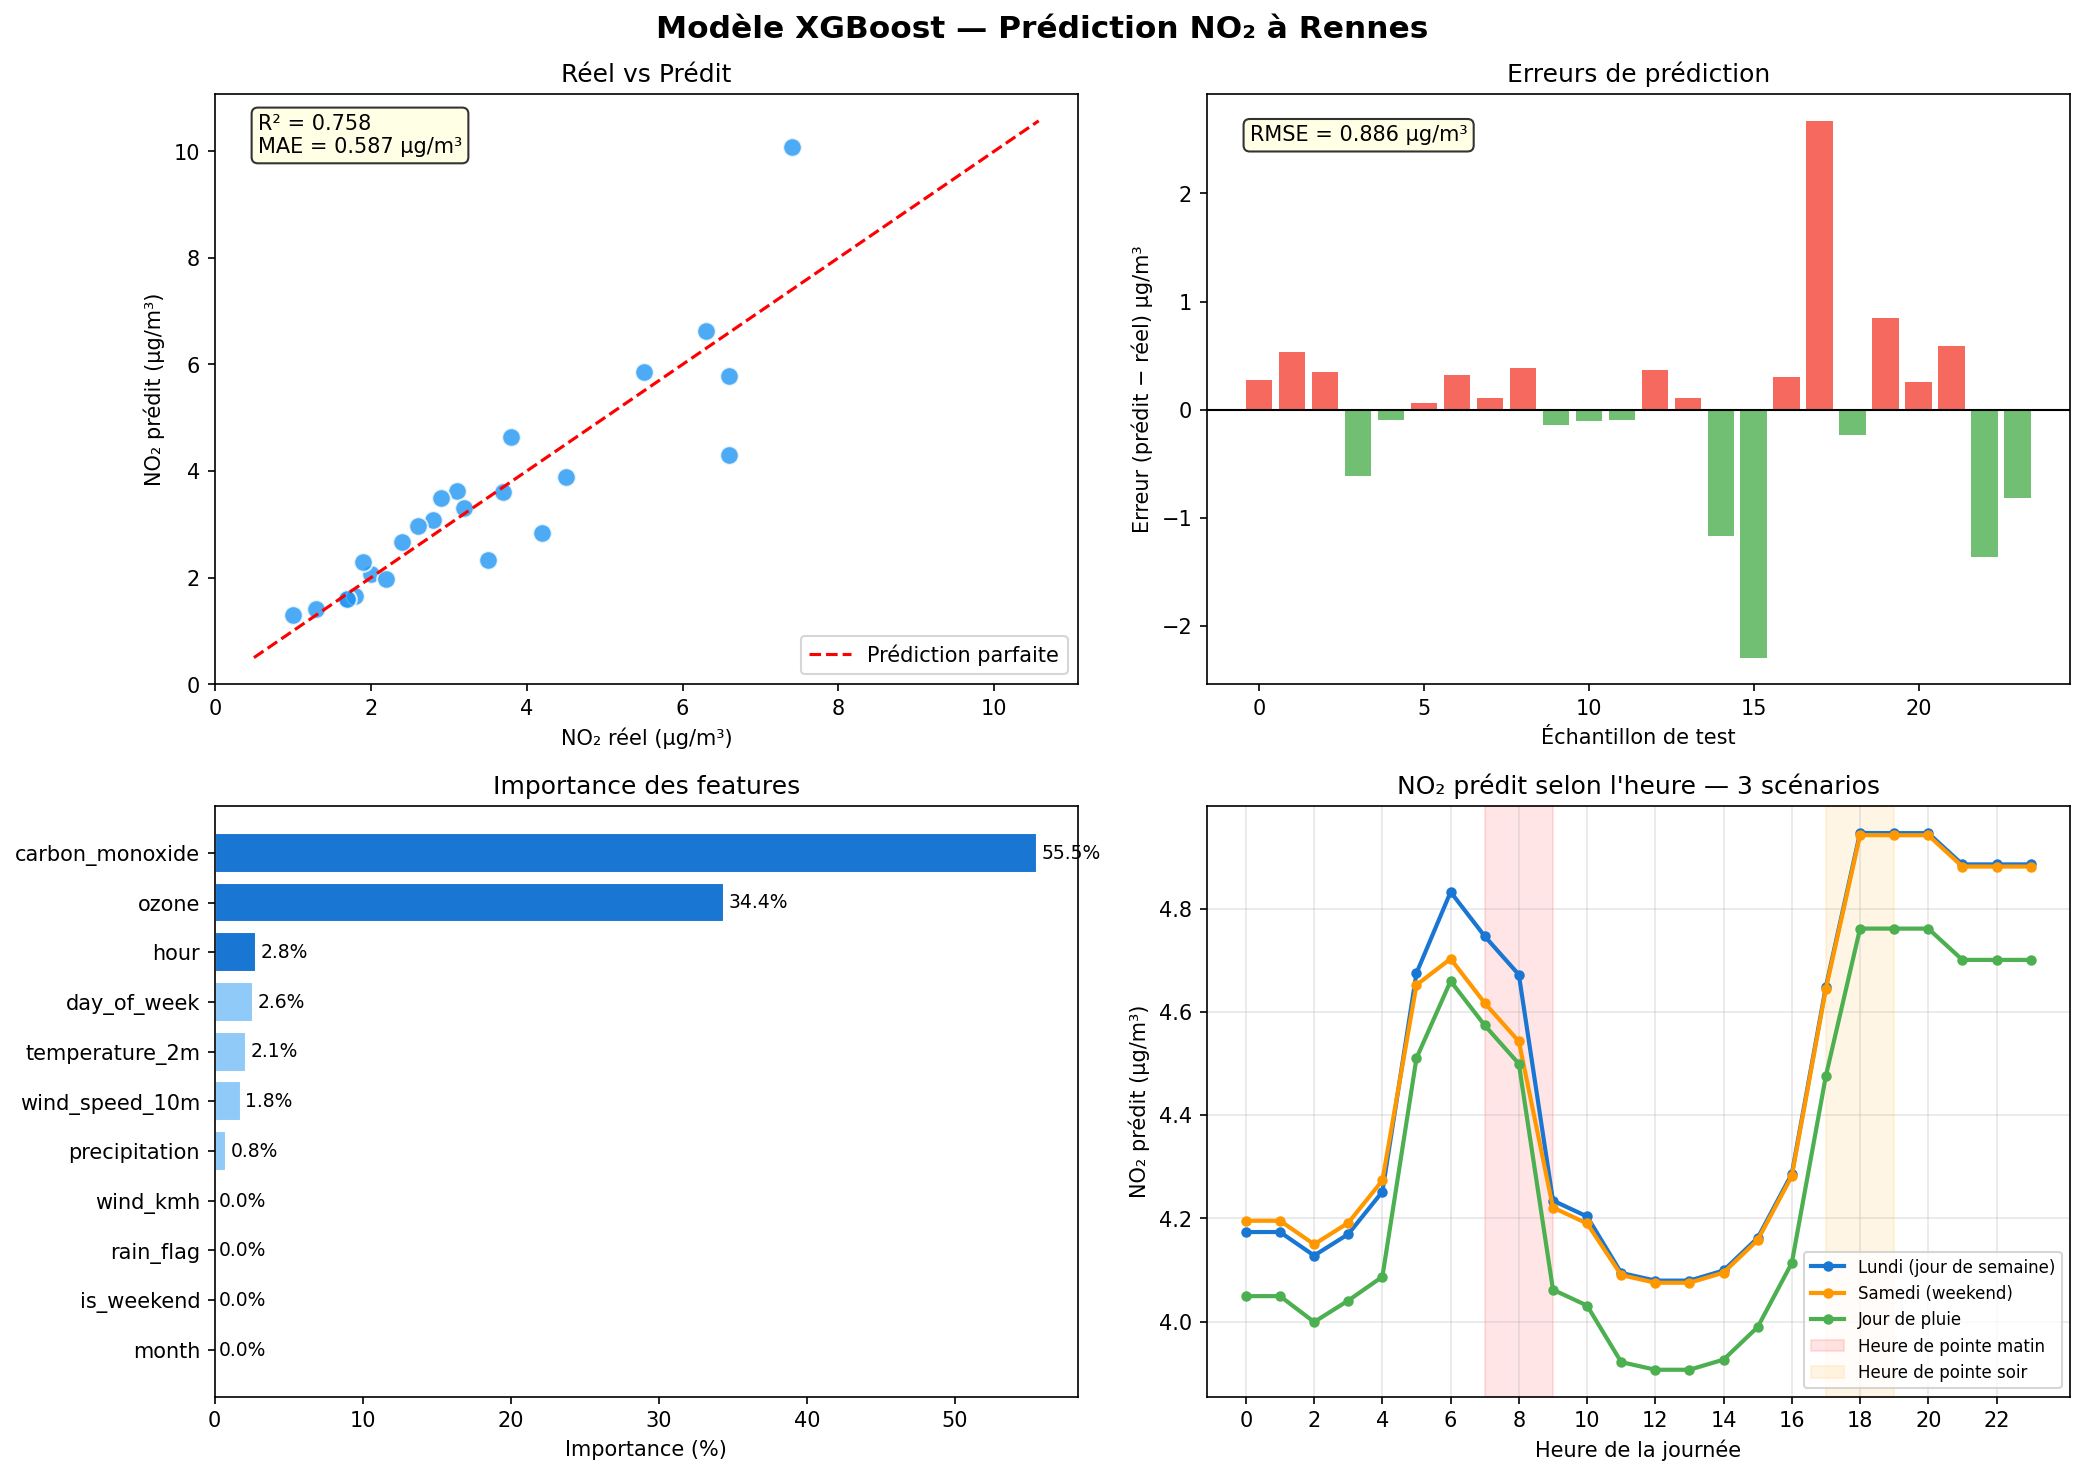
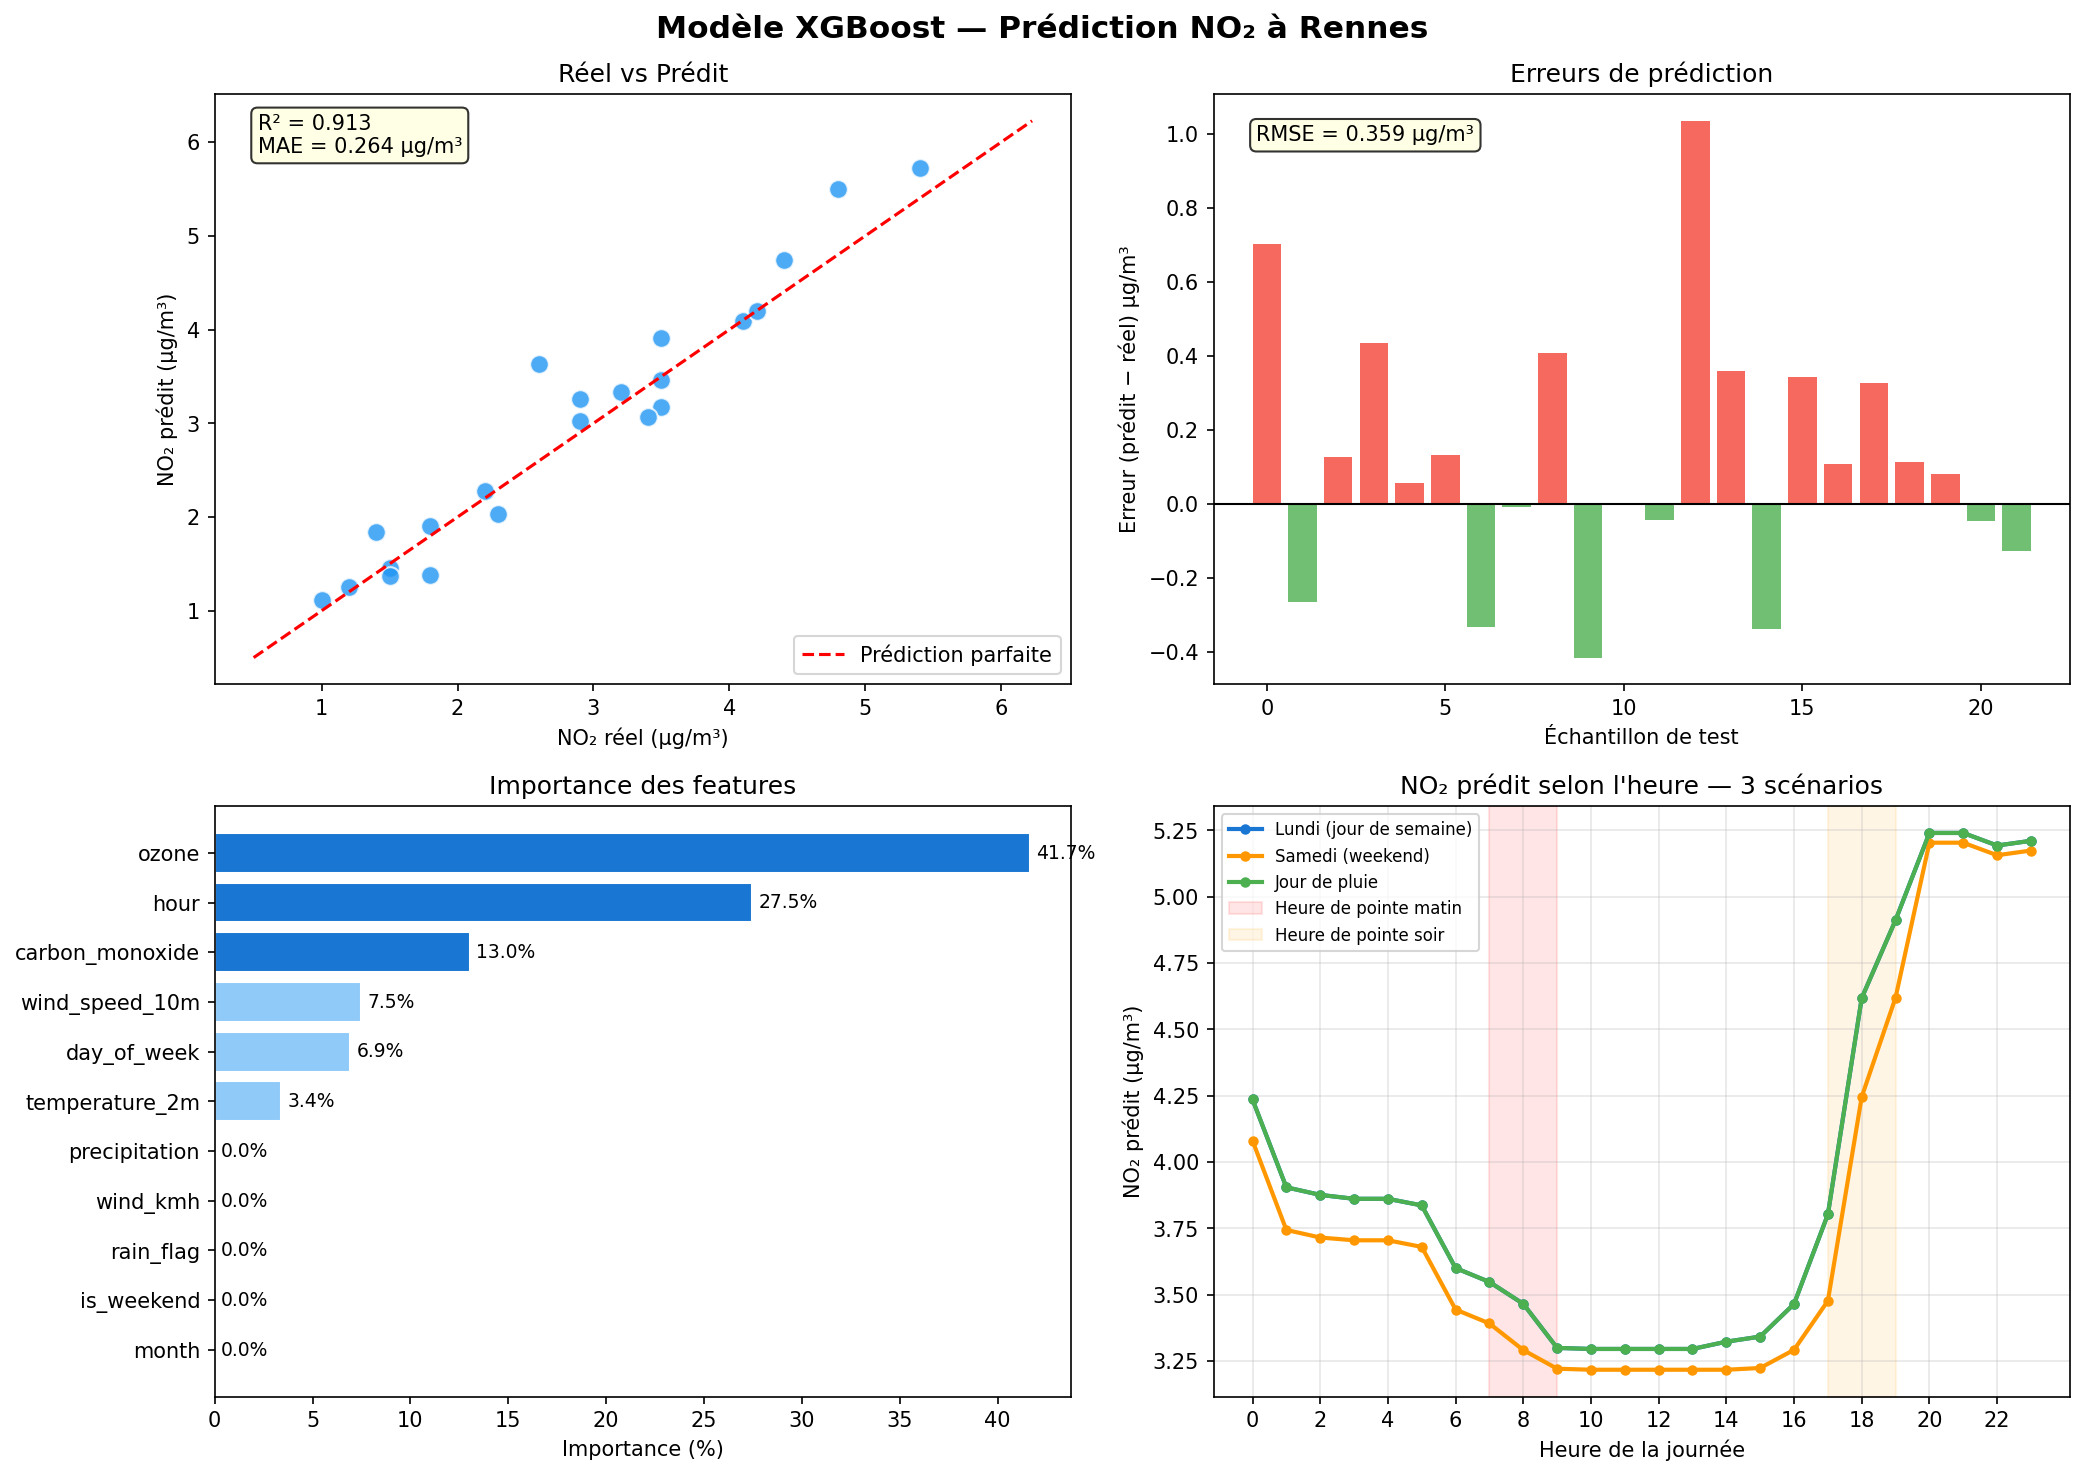
change ml vis

diff --git a/streamlit_app.py b/streamlit_app.py
@@ -1241,33 +1241,10 @@ with tab_model:
     m3.metric("R2", metrics["R2"])
     m4.metric("Algorithme", "XGBoost")
 
-    left, right = st.columns([1, 1])
-    with left:
-        fig_importance = px.bar(
-            importance,
-            x="importance",
-            y="feature",
-            orientation="h",
-            color="importance",
-            color_continuous_scale=["#2563EB", "#0CAF6D", "#D97706"],
-            labels={"importance": "Importance", "feature": "Variable"},
-        )
-        fig_importance.update_layout(
-            height=520,
-            yaxis={"categoryorder": "total ascending"},
-            margin=dict(l=8, r=8, t=12, b=8),
-            paper_bgcolor="rgba(0,0,0,0)",
-            plot_bgcolor="#FFFFFF",
-            font=dict(color="#111827"),
-            coloraxis_showscale=False,
-        )
-        st.plotly_chart(fig_importance, use_container_width=True)
-
-    with right:
-        if MODEL_IMAGE_PATH.exists():
-            st.image(str(MODEL_IMAGE_PATH), use_container_width=True)
-        else:
-            st.info("L'image des resultats n'existe pas encore. Lance `python ml/env_model_viz.py`.")
+    if MODEL_IMAGE_PATH.exists():
+        st.image(str(MODEL_IMAGE_PATH), use_container_width=True)
+    else:
+        st.info("L'image des resultats n'existe pas encore. Lance `python ml/env_model_viz.py`.")
 
 with tab_predict:
     st.subheader("Simulation de scenario NO2")
